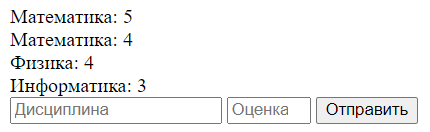
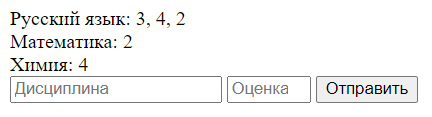
Update task5 of laboratory work 1 to combine grades of each discipline

Changed region(s): [[0.0, 0.0513, 0.9977, 0.9487]]

diff --git a/students/K33421/laboratory_works/Novikov_Alexey/laboratory_work_1/task5/server.py b/students/K33421/laboratory_works/Novikov_Alexey/laboratory_work_1/task5/server.py
@@ -1,13 +1,12 @@
 import socket
 import json
 import sys
-from collections import namedtuple
+from collections import defaultdict
 from typing import Any
 
 
 class MyHTTPServer:
-    data = []
-    Grade = namedtuple("Grade", ["discipline", "value"])
+    data = defaultdict(list)
 
     def __init__(self, host: str, port: int):
         self.host = host
@@ -73,9 +72,7 @@ class MyHTTPServer:
             with open("index.html", encoding="utf-8") as f:
                 html_file = f.read()
 
-            grades = "<br>".join(
-                f"{grade.discipline}: {grade.value}" for grade in self.data
-            )
+            grades = "<br>".join(f"{discipline}: {', '.join(grades)}" for discipline, grades in self.data.items())
             html_file = html_file.replace("GRADES", grades)
             self.send_response(conn, html_file)
         else:
@@ -83,13 +80,11 @@ class MyHTTPServer:
                 html_file = f.read()
             self.send_response(conn, html_file, status_code="404 Not Found")
 
-    def handle_post_request(
-        self, path: str, body: dict, conn: socket.socket
-    ) -> None:
+    def handle_post_request(self, path: str, body: dict, conn: socket.socket) -> None:
         if path == "/":
             discipline = body.get("discipline", "")
             grade = body.get("grade", "")
-            self.data.append(self.Grade(discipline, grade))
+            self.data[discipline].append(grade)
 
             self.send_response(conn, "")
         else:
@@ -103,17 +98,8 @@ class MyHTTPServer:
             "Content-Type": "text/html; charset=utf-8",
             "Connection": "close",
         }
-        response_headers_raw = "".join(
-            f"{k}: {v}\r\n" for k, v in response_headers.items()
-        )
-        conn.sendall(
-            (
-                f"""HTTP/1.1 {status_code}\r\n"""
-                + response_headers_raw
-                + "\r\n"
-                + response
-            ).encode("utf-8")
-        )
+        response_headers_raw = "".join(f"{k}: {v}\r\n" for k, v in response_headers.items())
+        conn.sendall((f"""HTTP/1.1 {status_code}\r\n""" + response_headers_raw + "\r\n" + response).encode("utf-8"))
 
 
 if __name__ == "__main__":

diff --git a/students/K33421/laboratory_works/Novikov_Alexey/docs/lw1/task5.md b/students/K33421/laboratory_works/Novikov_Alexey/docs/lw1/task5.md
@@ -39,12 +39,12 @@
     с помощью метода `parse_body` парсит тело запроса и отправляет путь, тело и сокет в метод `handle_post_request`.
 
     Метод `handle_get_request` проверяет путь запроса, если он совпадает с нужным (в моём случае со стартовой страницей), 
-    получает содержимое файла `index.html`, объединяет все оценки из списка `data`, заменяет оценками шаблон в HTML-файле 
+    получает содержимое файла `index.html`, объединяет все оценки из словаря `data`, заменяет оценками шаблон в HTML-файле 
     и отправляет полученное будущее тело запроса в метод `send_response`. Если путь не удовлетворил требованиям, 
     в метод `send_response` отправится содержимое файла `not_found.html` вместе со статус кодом `404 Not Found`.
 
     Метод `handle_post_request` так же проверяет путь запроса и в случае совпадения проверит содержимое тела запроса, 
-    получит оттуда название дисциплины и оценку и добавит эту информацию в список `data`. Затем передаст пустое тело запроса 
+    получит оттуда название дисциплины и оценку и добавит эту информацию в словарь `data`. Затем передаст пустое тело запроса 
     в метод `send_response`. Если путь не удовлетворил требованиям, то так же отправляет содержимое файла `not_found.html`. 
 
     В методе `send_response` создаётся словарь заголовков, "трансформируется" в строку, затем объединяется с версией HTTP, 
